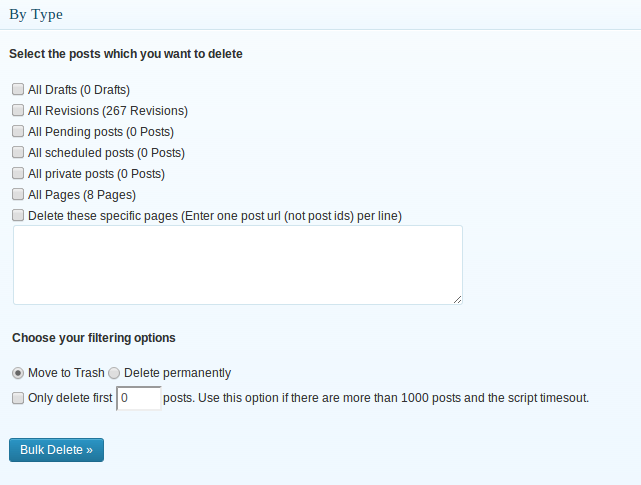
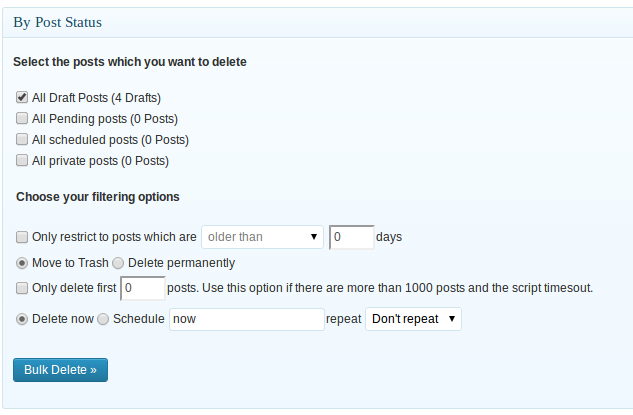
Updated screenshots

diff --git a/readme.md b/readme.md
@@ -151,11 +151,19 @@ The ability to schedule deletion of posts is available as a pro addon.
 
 ## Screenshots ##
 
-1. The above screenshot shows how you can delete Posts by type. You can choose between drafts, revisions, Pending posts, scheduled posts, privates posts, pages etc..
+1. The above screenshot shows how you can delete Posts by post status. You can choose between drafts, pending posts, scheduled posts, privates posts.
 
-2. The above screenshot shows how you can delete posts by tag
+2. The above screenshot shows how you can delete posts by category. 
 
-3. The above screenshot shows how you can delete posts by Custom taxonomies
+3. The above screenshot shows how you can delete posts by tags.
+
+4. The above screenshot shows how you can delete posts by custom taxonomies.
+
+5. The above screenshot shows how you can delete pages by post status. You can choose between draft pages, pending pages, scheduled pages and privates pages.
+
+6. The above screenshot shows how you can schedule auto delete of posts. Note that this feature is available only when you buy [pro addons](http://sudarmuthu.com/wordpress/bulk-delete/pro-addons).
+
+7. The above screenshot shows the scheduled auto delete jobs will be displayed. Note that this feature is available only when you buy [pro addons](http://sudarmuthu.com/wordpress/bulk-delete/pro-addons).
 
 ## Changelog ##
 
